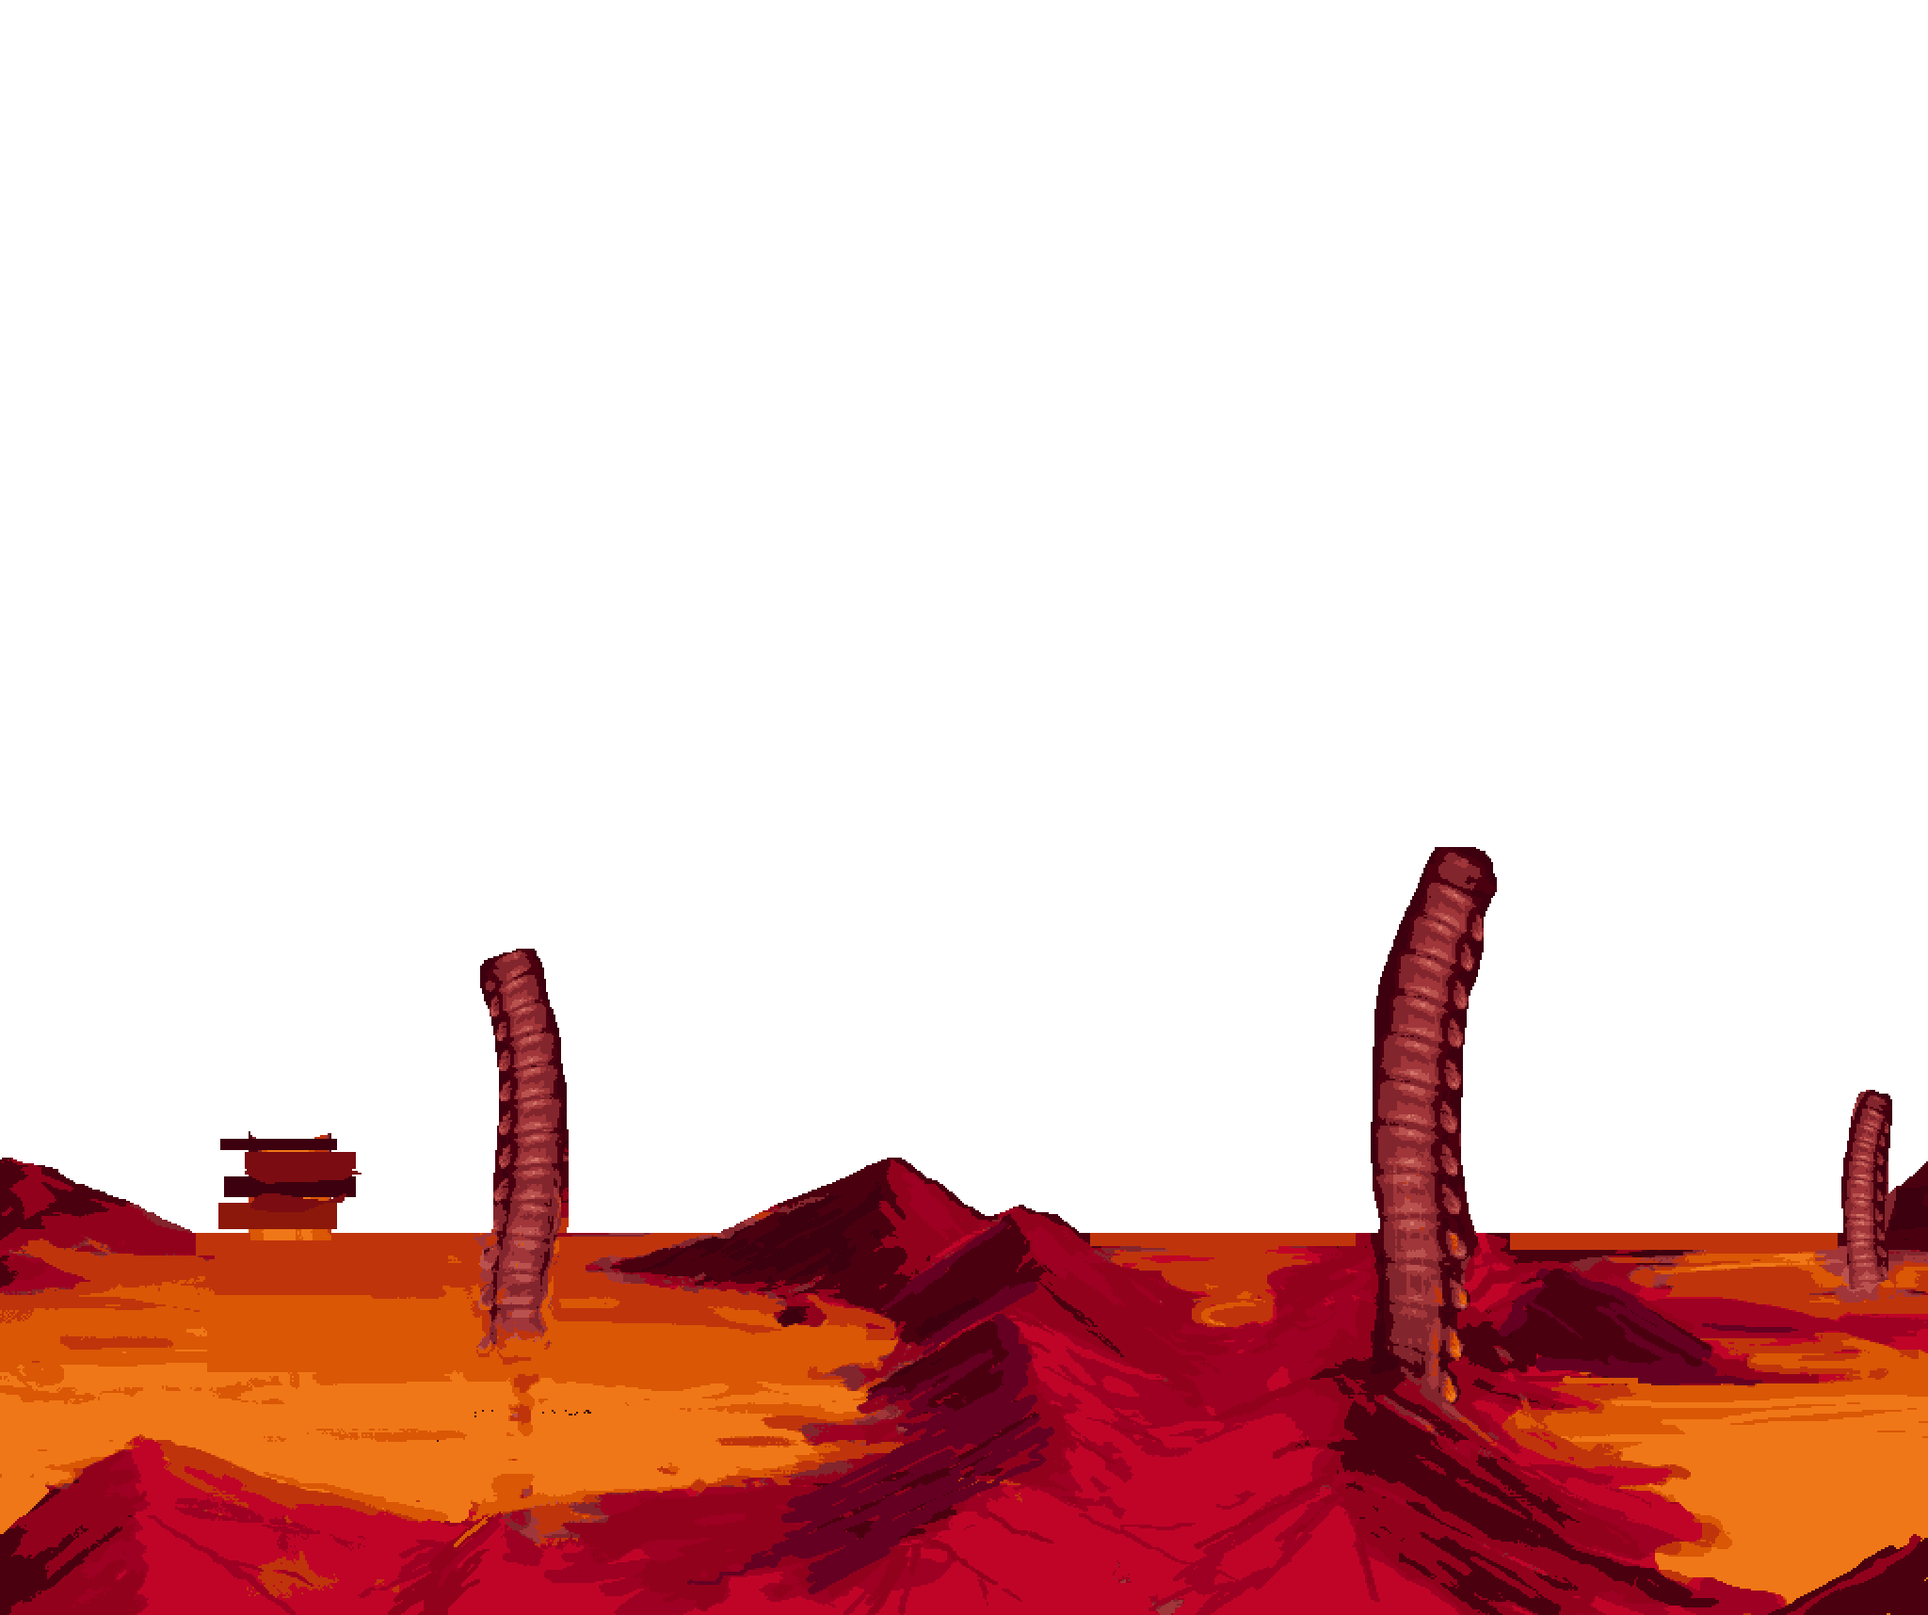
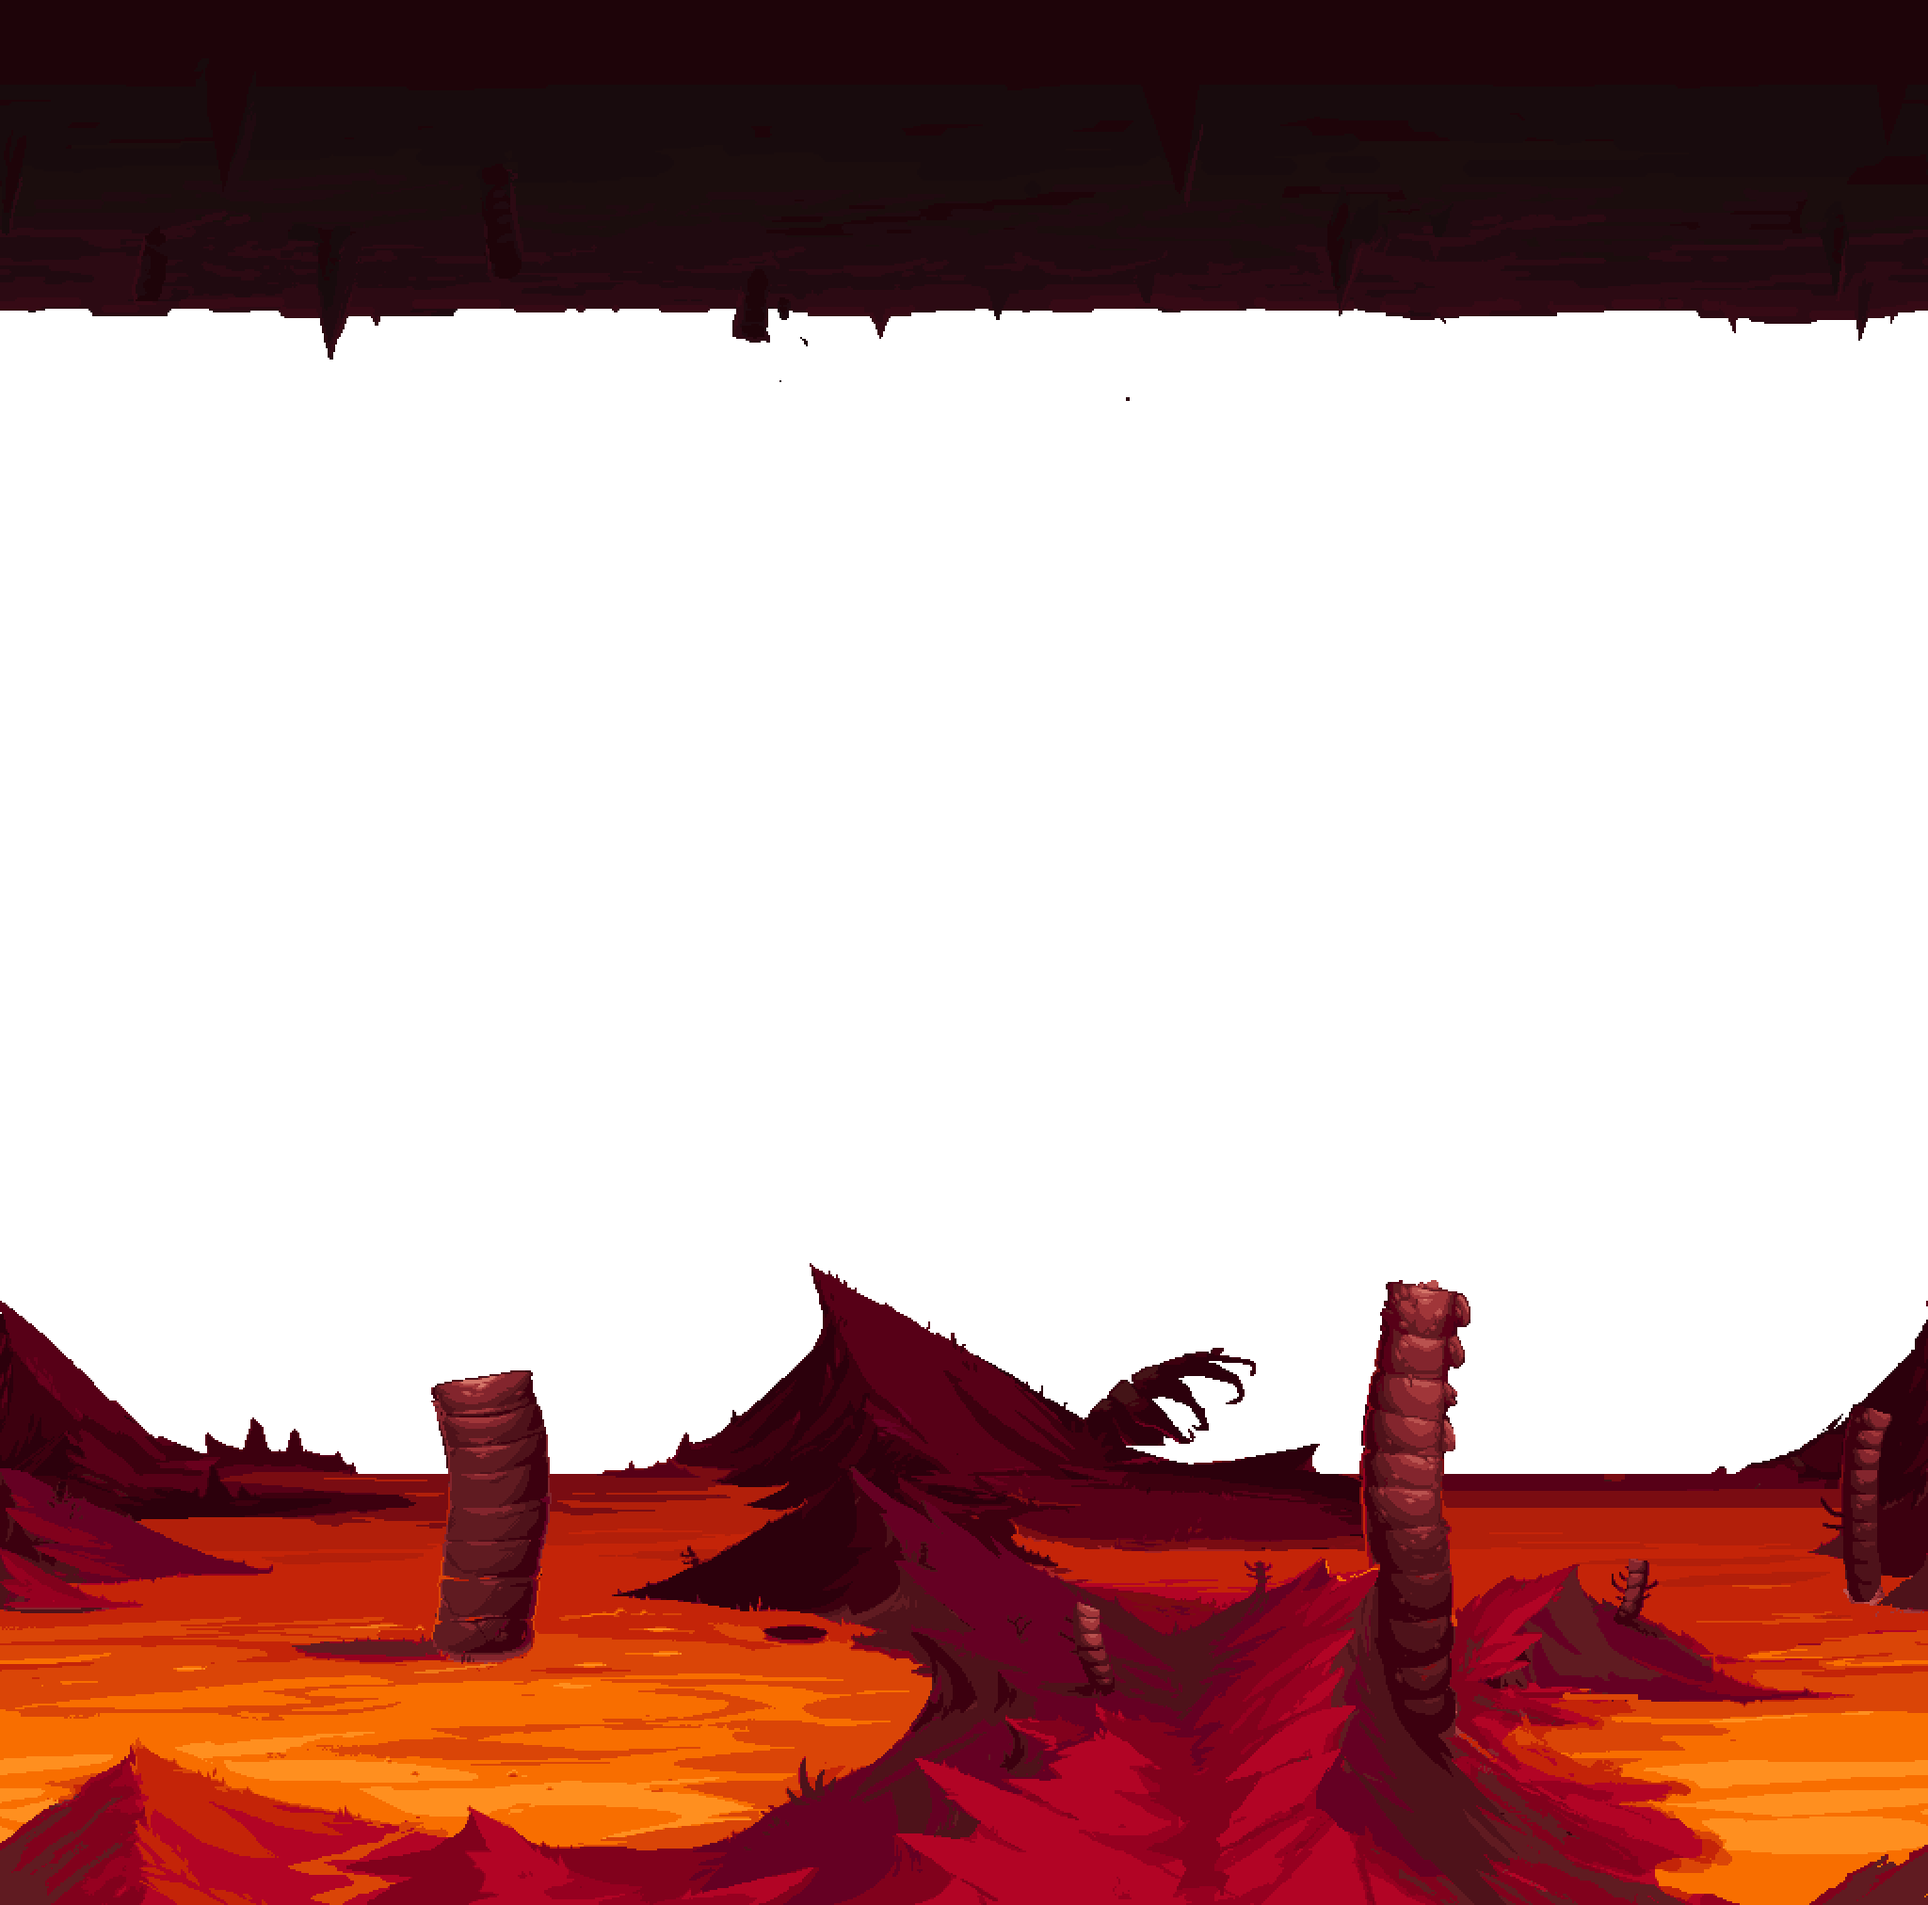
feat: new crimson bg

diff --git a/src/EvilExpansionMod/Common/World/_Backgrounds/UnderworldCrimsonBGSystem.cs b/src/EvilExpansionMod/Common/World/_Backgrounds/UnderworldCrimsonBGSystem.cs
@@ -181,12 +181,12 @@ public class UnderworldCrimsonBGSystem : ModSystem {
                 zero.Y -= 10f;
                 break;
             case 2:
-                zero.Y -= 20;
+                zero.Y += 280;
                 zero.Y -= heightChange * 0.5f;
                 num8 = newScaleFactorForLayer2;
                 break;
             case 3:
-                zero.Y += 150f;
+                zero.Y += 10f;
                 break;
         }
 
